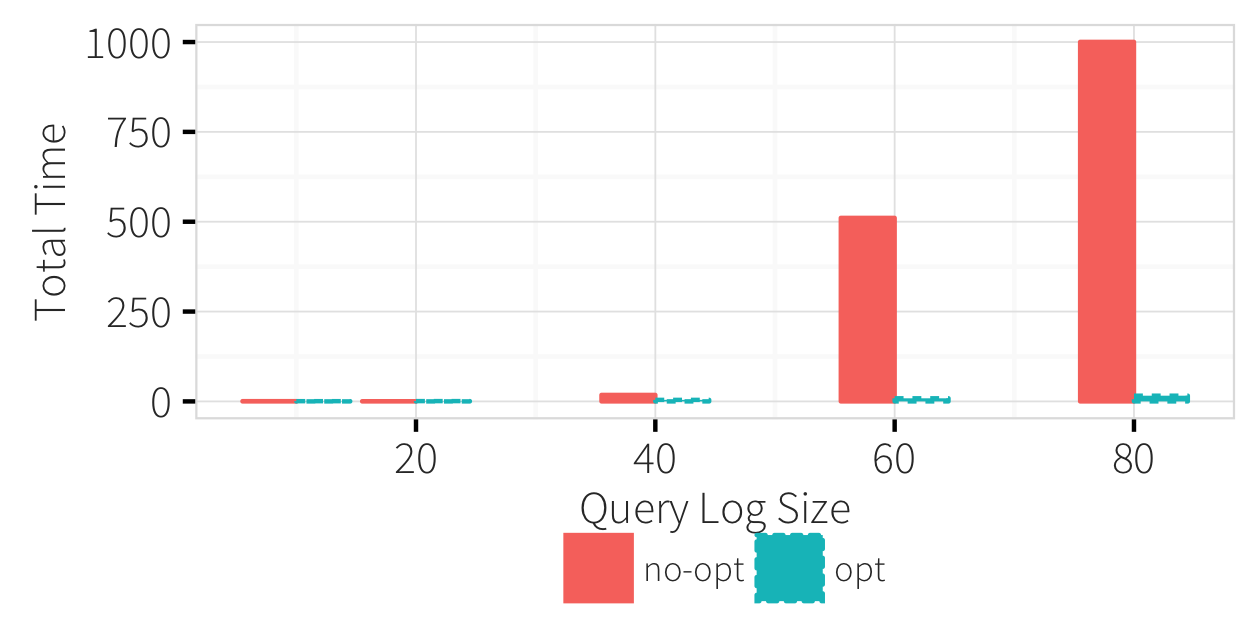
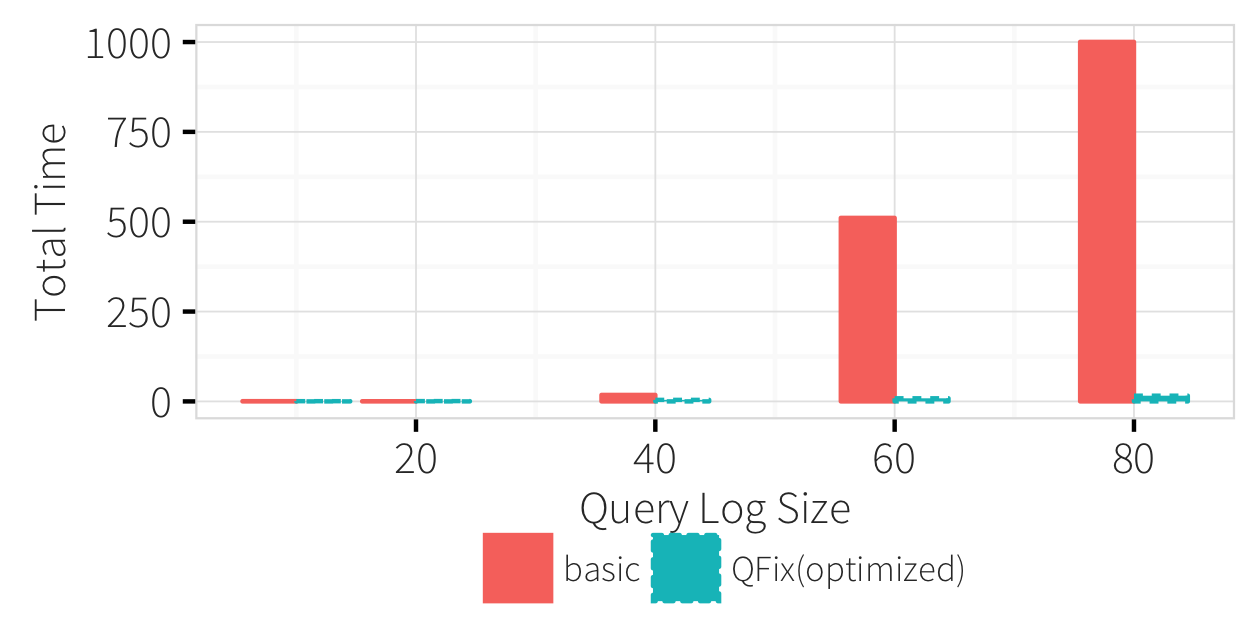
pass over section 4

Changed region(s): [[0.3717, 0.8458, 0.7744, 0.9666]]

diff --git a/docs/vldb16/content/xx-optimizations.tex b/docs/vldb16/content/xx-optimizations.tex
@@ -9,8 +9,9 @@ in the query log.  In this approach, the number of constraints (as well as undet
 grows quadratically with respect to the database and the query log.
 \ewu{Actually encoding all queries or only oldest query as undetermined variables.  The latter motivates the incremental optimiation in Section~\ref{sec:incremental}}
 \ewu{Alternative: Just talk about red bars.  Blue bars discussed in incremental section}
+\xlw{I double checked the result, blue bar is $inc_1$ plus tuple slicing. So I keep the description for blue bar here as optimized QFix.}
 Figure~\ref{fig:querysize_vs_time} shows a simple scalability experiment, where we generated increasingly 
-larger query logs for a database of $1000$ tuples, encoded the problem using \naive (red bars), 
+larger query logs for a database of $1000$ tuples, encoded the problem using $basic$ (red bars), 
 and solved the problem using a MILP-solver (CPLEX in our experiments).
 We find that the solver time increases exponentially as the number of encoded queries increases --
 at a log size of $80$, the solver failed to produce an answer within $1000$ seconds --

diff --git a/docs/vldb16/content/xx-solutions.tex b/docs/vldb16/content/xx-solutions.tex
@@ -3,7 +3,7 @@
 \section{A MILP-based Solution}
 \label{sec:sol}
 
-In this section, we introduce \naive, an exhaustive solver-based approach to 
+In this section, we introduce a basic (exhaustive) solver-based approach to 
 resolve the errors reflected in the complaint set.
 This approach constructs a mixed-integer linear 
 programming (MILP) problem by linearizing and parameterizing the 
@@ -343,7 +343,7 @@ $\mathcal{Q}^*$.
 
 
 \begin{algorithm}[t]
-\caption{\naive (MILP formulation).}
+\caption{The basic MILP-based approach (MILP formulation).}
 \label{alg:basic}
 \scriptsize
 \begin{algorithmic}[1]
